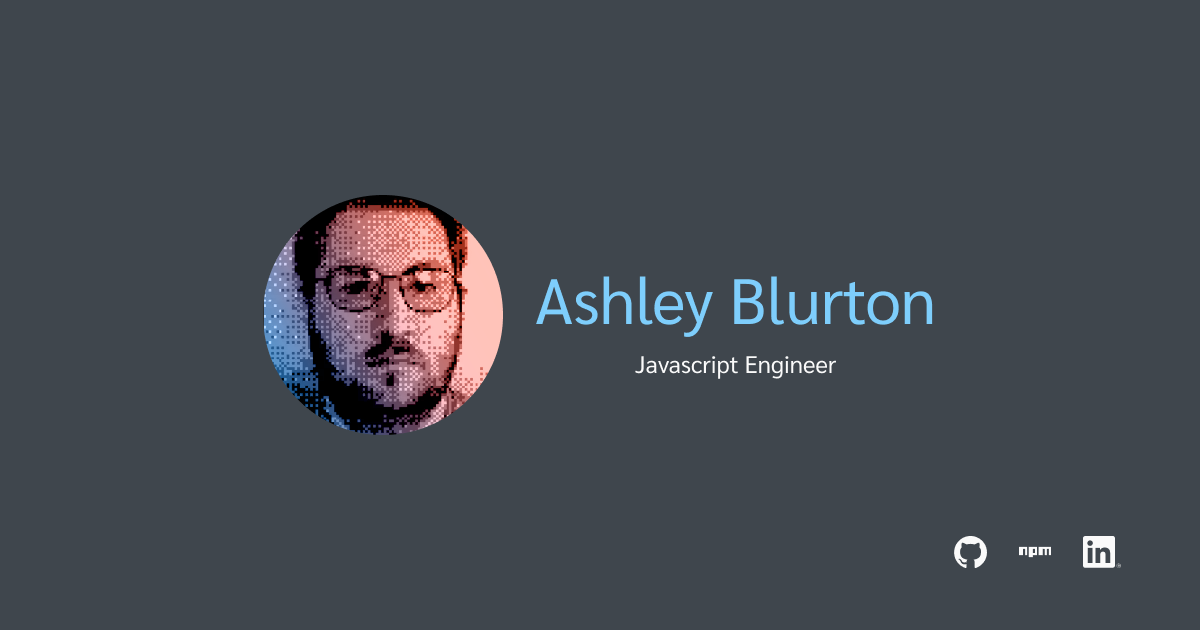
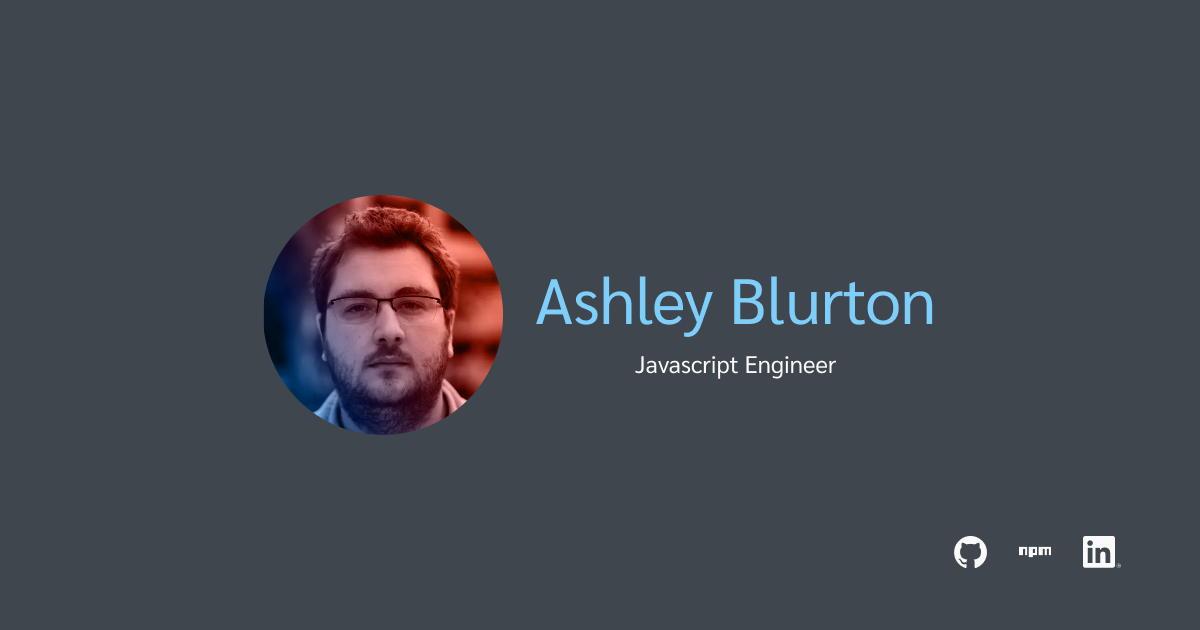
Use a better photo (and the right compression)

Changed region(s): [[0.2158, 0.3016, 0.4317, 0.6937]]

diff --git a/src/Sidebar/Avatar.tsx b/src/Sidebar/Avatar.tsx
@@ -1,12 +1,12 @@
 import React from "react";
 import Image from "next/image";
 import styled from "styled-components";
-import Picture from "assets/photos/Avatar@3x.png";
+import Picture from "assets/photos/Avatar@3x.jpg";
 
 const Avatar: React.FC = () => {
   return (
     <AvatarWrapper>
-      <Image src={Picture} alt="Me" layout="fill" />
+      <Image src={Picture} alt="Me" layout="fill" width={192} height={192} />
       <ColorOverlay />
     </AvatarWrapper>
   );
